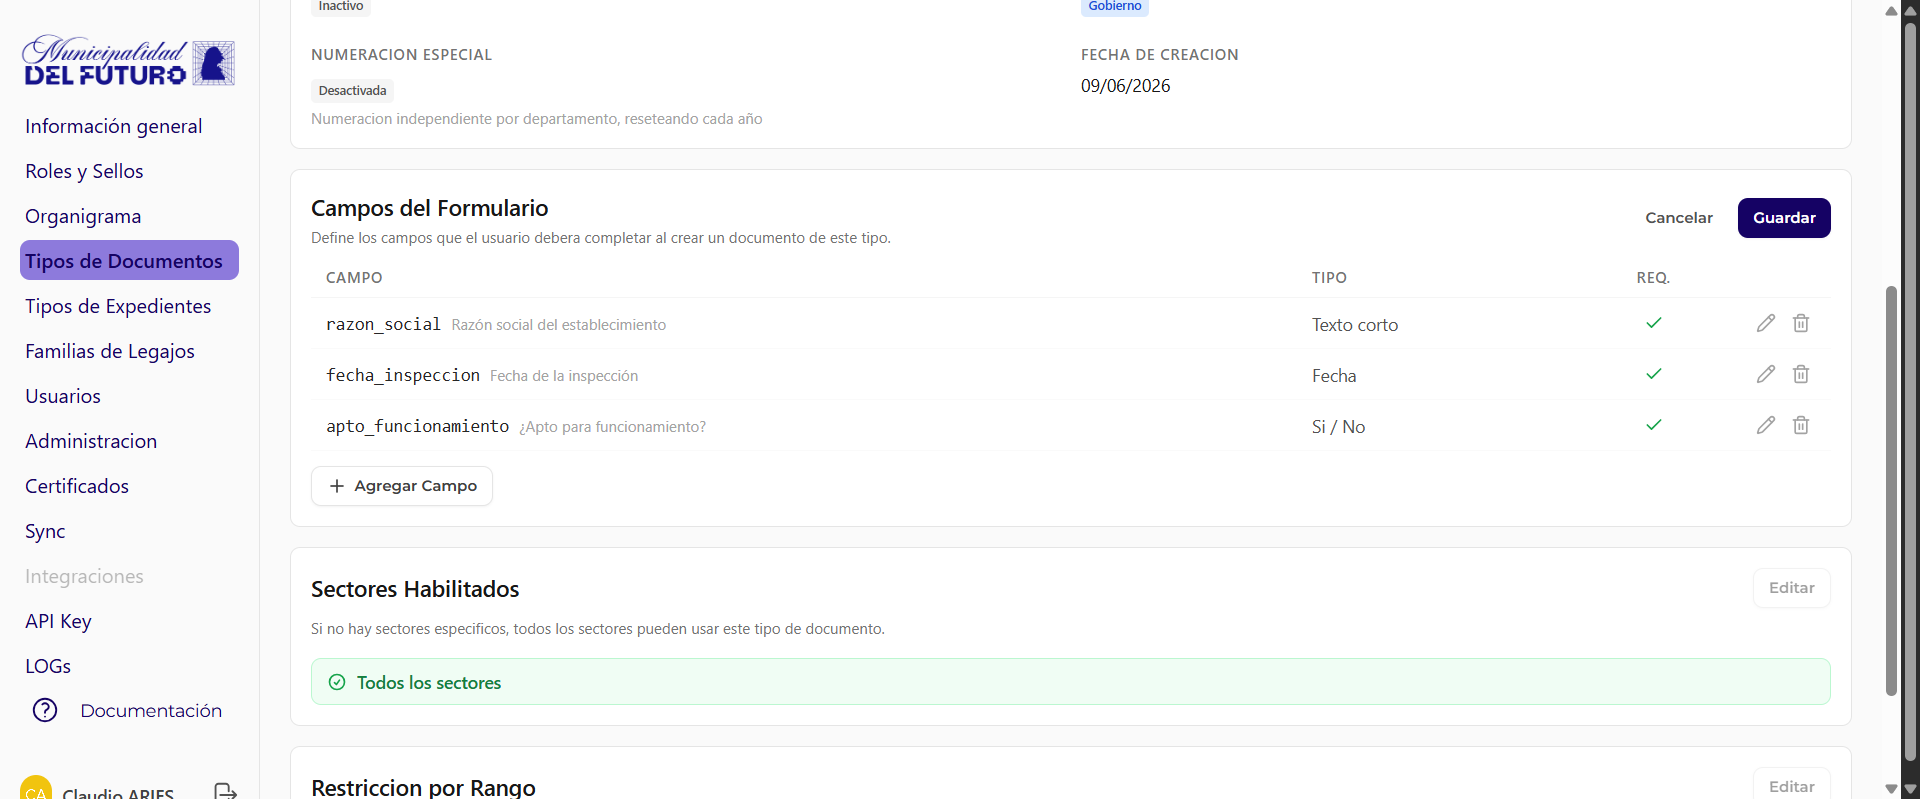
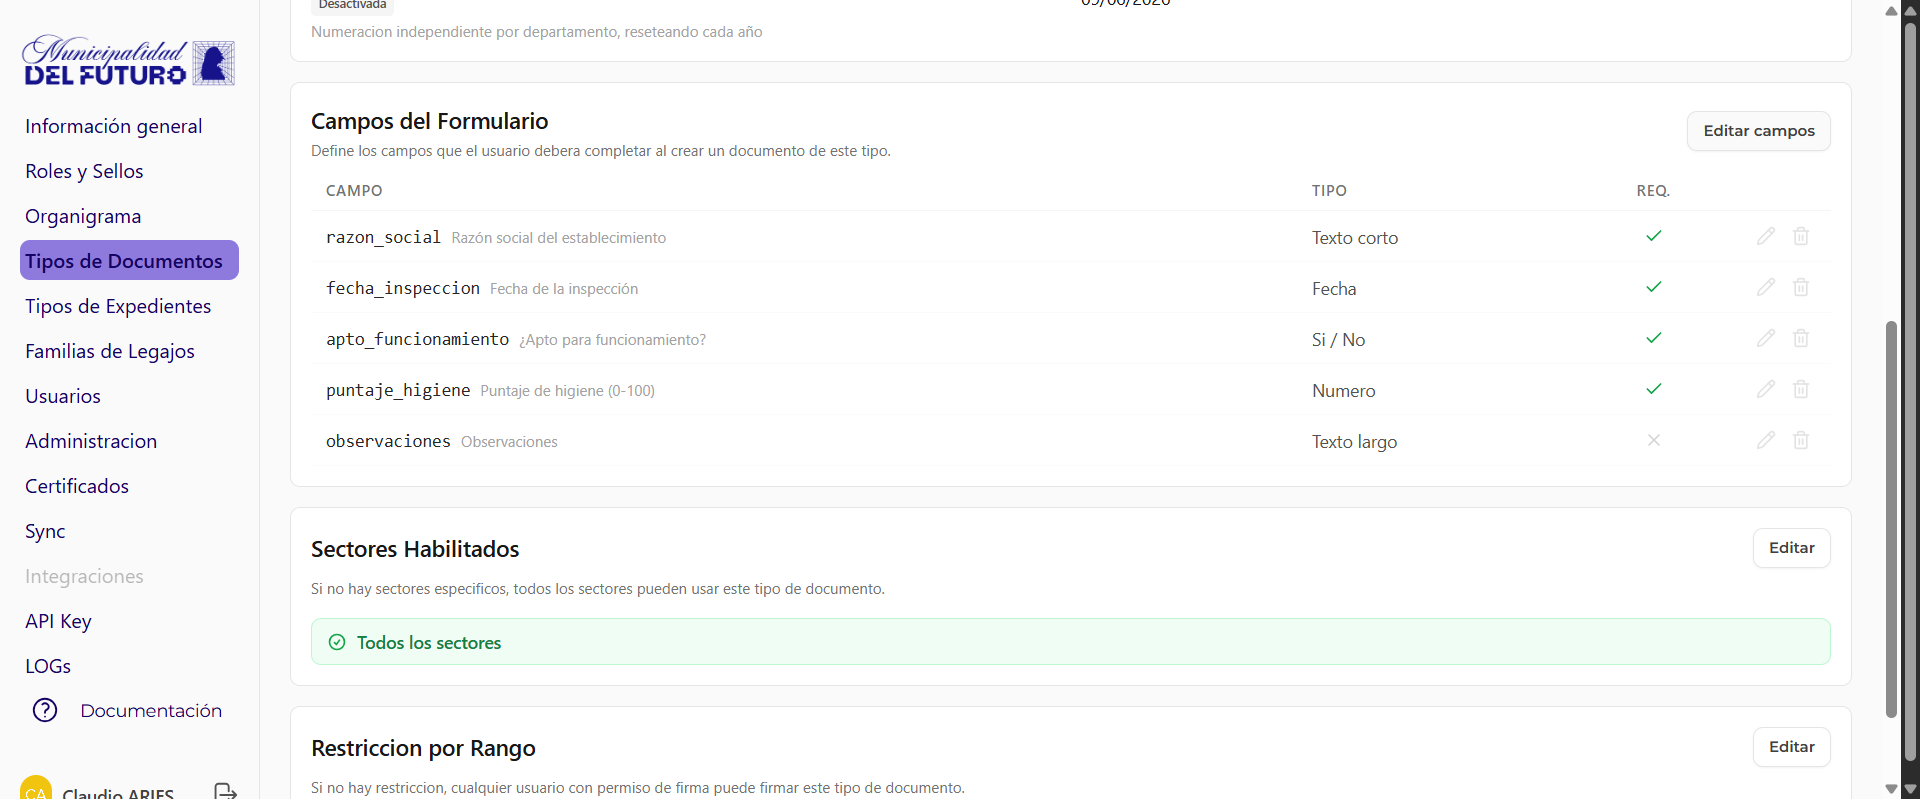
docs: separar pagina Panel del Expediente y documentar FFCC a nivel usuario
- Nueva pagina "Panel del Expediente" (panel.md): sector administrador,
  responsables, resumen IA, sectores actuantes y "Nueva Tarea / Asignacion".
  El detalle del expediente queda como vista general y enlaza al Panel.
- Nueva pagina "Documento FFCC (Formulario Controlado)" (usuarios): como se
  completa el formulario de campos controlados y como se ve el PDF resultante.
- Nav: agrega Panel y Documento FFCC; "Historial y Comentarios".
- Captura admin de campos FFCC actualizada a 5 campos de distinto tipo.

Build mkdocs --strict OK.

diff --git a/docs/usuarios/expedientes/panel.md b/docs/usuarios/expedientes/panel.md
@@ -1,0 +1,114 @@
+# Panel del Expediente
+
+La pestana **Panel** es la vista de gestion del expediente y la **pestana por defecto** al abrirlo. Concentra quien controla el expediente (sector administrador y responsables), un resumen generado por IA, y que sectores estan actuando sobre el. Se organiza en dos columnas.
+
+![Pestana Panel del expediente](../capturas/expediente-panel.png)
+
+!!! info "Panel, Documentos, Historial y Tu Asistente"
+    El detalle del expediente tiene cuatro pestanas: **Panel**, **Documentos**, **Historial** y **Tu Asistente**. El Panel es la que se muestra activa al abrir el expediente. Para el header y la vista general ver [Detalle del Expediente](detalle-expediente.md); para la linea de tiempo y los comentarios ver [Historial](movimientos.md).
+
+---
+
+## Columna izquierda: administracion y responsables
+
+### Sector Administrador
+
+La tarjeta **"SECTOR ADMINISTRADOR"** muestra el badge del sector que controla el expediente (por ejemplo `CONT#PRIV`). Es el area organizacional responsable del expediente.
+
+### Responsables
+
+Debajo, la seccion **"RESPONSABLES"** lista cada responsable asignado:
+
+| Elemento | Descripcion |
+|----------|-------------|
+| **Avatar y nombre** | Foto o iniciales del responsable, su nombre y su sector |
+| **Boton "Quitar responsable" (X)** | Quita al responsable de la lista |
+| **"Sin responsables asignados."** | Mensaje que aparece cuando no hay ningun responsable |
+| **Boton "+ responsable"** | Abre el modal para agregar un responsable administrador |
+| **Boton "Transferir"** | Cede el control administrativo del expediente a otro sector |
+
+!!! note "Responsable administrador y responsables adicionales"
+    El expediente puede tener un **responsable administrador** principal y **responsables adicionales**. El responsable administrador solo puede elegirse entre los usuarios del **sector administrador** del expediente.
+
+#### Modal "Agregar responsable administrador"
+
+El boton **"+ responsable"** abre el modal titulado **"Agregar responsable administrador - Busca y elegi la persona"**. El buscador solo muestra usuarios pertenecientes al sector administrador. Al elegir una persona y confirmar, queda registrada como responsable.
+
+### Resumen del expediente (IA)
+
+La tarjeta **"RESUMEN DEL EXPEDIENTE"**, identificada con el badge **"IA"**, muestra un resumen generado automaticamente por inteligencia artificial a partir de los documentos y movimientos del expediente. Si todavia no se genero, muestra el mensaje **"Todavia no hay resumen."**.
+
+!!! info "Resumen no oficial"
+    El resumen generado por IA es un apoyo informativo. No constituye un documento oficial ni reemplaza la lectura de los documentos del expediente.
+
+---
+
+## Columna derecha: Sectores Actuantes
+
+La columna **"Sectores Actuantes"** lista los sectores que tienen acceso para actuar sobre el expediente sin controlarlo. Un contador en el encabezado indica cuantos hay (por ejemplo **"1 abiertos"**).
+
+Cada sector actuante se muestra como una tarjeta con:
+
+| Elemento | Descripcion |
+|----------|-------------|
+| **Badge del sector** | Sigla del sector actuante (por ejemplo `LEGAL#PRIV`) |
+| **Persona asignada** | Avatar, nombre y fecha de la persona a cargo de la tarea |
+| **Motivo** | Texto de la solicitud (`Motivo: ...`) |
+| **Boton "Reasignar responsable"** | Cambia la persona asignada dentro del sector actuante |
+| **Boton "Cerrar tarea"** | Cierra la tarea de ese sector actuante |
+| **Boton "Cerrar"** | Cierra el sector actuante |
+
+Debajo de las tarjetas hay una caja punteada **"Nueva Tarea / Asignacion — Asignar un sector o una persona"** con un boton **+** que abre el modal de nuevo movimiento.
+
+---
+
+## Nueva Tarea / Asignacion
+
+El boton **"Nueva Tarea / Asignacion"** (la caja punteada de la columna Sectores Actuantes, o la opcion **"Nuevo Movimiento"** del menu Acciones) abre el modal **"Nuevo Movimiento — &lt;numero&gt;"**, con dos pestanas: **Asignacion** y **Transferencia**.
+
+![Modal Nuevo Movimiento - pestana Asignacion](../capturas/expediente-asignacion-modal.png)
+
+### Asignacion
+
+Solicita una **Actuacion Interna**: otorgas acceso a otros sectores **sin perder el control** del Expediente. El sector asignado puede consultar los documentos y realizar las tareas solicitadas, pero el sector administrador mantiene la responsabilidad.
+
+| Campo | Tipo | Descripcion |
+|-------|------|-------------|
+| **Sector a Asignar (persona opcional)** | Combobox con busqueda | Al escribir 2 o mas caracteres busca y agrupa los resultados en **"Solo sector"** y **"Personas"**. Si se elige una persona, se muestran sus sectores para seleccionar uno |
+| **Motivo (min. 5 caracteres)** | Textarea | Descripcion de lo que se solicita. Muestra un contador `/500` |
+| **Sector Solicitante** | Texto fijo | El sector del usuario que realiza la solicitud. No es editable |
+| **Asentar en el expediente** | Si / No | Si es **Si**, genera una providencia de pase (PV) que queda registrada en la pestana Documentos |
+
+| Boton | Accion |
+|-------|--------|
+| **Cancelar** | Cierra el modal sin crear la asignacion |
+| **Confirmar Asignacion** | Crea la actuacion interna y otorga el acceso al sector o persona elegida |
+
+!!! info "Asignar otorga acceso, no cede el control"
+    Una asignacion suma al sector o persona como **actuante**: obtiene acceso para consultar y actuar sobre el expediente, pero el control administrativo sigue en el sector administrador.
+
+### Transferencia
+
+La pestana **Transferencia** **cede el control administrativo** del expediente a otro sector, igual que la transferencia clasica. A diferencia de la asignacion, el sector que transfiere pierde el rol de administrador y el sector destino pasa a ser el nuevo administrador.
+
+!!! warning "La transferencia cambia el administrador"
+    Al transferir, el sector de origen pierde el control administrativo. Solo el nuevo sector administrador podra volver a transferir el expediente o gestionarlo.
+
+---
+
+## Preguntas frecuentes
+
+??? question "Cual es la diferencia entre asignacion y transferencia?"
+    La **asignacion** (actuacion interna) otorga acceso a otro sector o persona sin perder el control: el sector administrador sigue siendo el mismo. La **transferencia** cede el control administrativo al sector destino, que pasa a ser el nuevo administrador.
+
+??? question "Quien puede ser responsable administrador?"
+    El responsable administrador solo puede elegirse entre los usuarios del **sector administrador** del expediente. Se asigna desde el modal "Agregar responsable administrador" en la pestana Panel.
+
+??? question "Que es el badge IA en la tarjeta de resumen?"
+    Indica que el resumen del expediente fue generado automaticamente por inteligencia artificial a partir de sus documentos y movimientos. Si aun no se genero, muestra "Todavia no hay resumen.".
+
+??? question "Que significa el contador 'N abiertos' en Sectores Actuantes?"
+    Es la cantidad de sectores actuantes activos sobre el expediente, es decir, los sectores a los que se les otorgo acceso mediante una asignacion y que todavia no fueron cerrados.
+
+??? question "Una asignacion genera algun documento en el expediente?"
+    Si el campo **"Asentar en el expediente"** queda en **Si**, la asignacion genera una providencia de pase (PV) que queda registrada en la pestana Documentos.

diff --git a/docs/usuarios/expedientes/detalle-expediente.md b/docs/usuarios/expedientes/detalle-expediente.md
@@ -35,7 +35,7 @@ Debajo del titulo se muestra un resumen de los datos del expediente en una sola 
 | Opcion | Descripcion |
 |--------|-------------|
 | **Descargar** | Descarga un archivo ZIP con todos los documentos oficiales del expediente. Ver seccion [Descargar expediente como ZIP](#descargar-expediente-como-zip) |
-| **Nuevo Movimiento** | Abre el modal para crear una nueva asignacion o transferencia. Ver [Nueva Tarea / Asignacion](#nueva-tarea-asignacion) |
+| **Nuevo Movimiento** | Abre el modal para crear una nueva asignacion o transferencia. Ver [Panel del Expediente](panel.md#nueva-tarea-asignacion) |
 | **Vincular Documentos** | Navega a la pestana Documentos y abre el modal de vinculacion. Ver [Vincular Documentos](vincular-documentos.md) |
 | **Subsanar** | Abre el proceso guiado de subsanacion. Ver [Subsanar en Expediente](subsanar-expediente.md) |
 
@@ -59,92 +59,11 @@ La pantalla se organiza en cuatro pestanas:
 
 ## Pestana Panel
 
-Es la pestana central del expediente. Concentra la gestion de quien controla el expediente, quienes son sus responsables y que sectores estan actuando sobre el. Se organiza en dos columnas.
+Es la pestana central del expediente y la que se muestra por defecto al abrirlo. Concentra la gestion de quien controla el expediente, quienes son sus responsables, el resumen IA y los sectores actuantes; ademas, desde ahi se crean las asignaciones y transferencias ("Nueva Tarea / Asignacion").
 
 ![Pestana Panel del expediente](../capturas/expediente-panel.png)
 
-### Columna izquierda: administracion y responsables
-
-#### Sector Administrador
-
-La tarjeta **"SECTOR ADMINISTRADOR"** muestra el badge del sector que controla el expediente (por ejemplo `CONT#PRIV`). Es el area organizacional responsable del expediente.
-
-#### Responsables
-
-Debajo, la seccion **"RESPONSABLES"** lista cada responsable asignado:
-
-| Elemento | Descripcion |
-|----------|-------------|
-| **Avatar y nombre** | Foto o iniciales del responsable, su nombre y su sector |
-| **Boton "Quitar responsable" (X)** | Quita al responsable de la lista |
-| **"Sin responsables asignados."** | Mensaje que aparece cuando no hay ningun responsable |
-| **Boton "+ responsable"** | Abre el modal para agregar un responsable administrador |
-| **Boton "Transferir"** | Cede el control administrativo del expediente a otro sector |
-
-!!! note "Responsable administrador y responsables adicionales"
-    El expediente puede tener un **responsable administrador** principal y **responsables adicionales**. El responsable administrador solo puede elegirse entre los usuarios del **sector administrador** del expediente.
-
-##### Modal "Agregar responsable administrador"
-
-El boton **"+ responsable"** abre el modal titulado **"Agregar responsable administrador - Busca y elegi la persona"**. El buscador solo muestra usuarios pertenecientes al sector administrador. Al elegir una persona y confirmar, queda registrada como responsable.
-
-#### Resumen del expediente (IA)
-
-La tarjeta **"RESUMEN DEL EXPEDIENTE"**, identificada con el badge **"IA"**, muestra un resumen generado automaticamente por inteligencia artificial a partir de los documentos y movimientos del expediente. Si todavia no se genero, muestra el mensaje **"Todavia no hay resumen."**.
-
-!!! info "Resumen no oficial"
-    El resumen generado por IA es un apoyo informativo. No constituye un documento oficial ni reemplaza la lectura de los documentos del expediente.
-
-### Columna derecha: Sectores Actuantes
-
-La columna **"Sectores Actuantes"** lista los sectores que tienen acceso para actuar sobre el expediente sin controlarlo. Un contador en el encabezado indica cuantos hay (por ejemplo **"1 abiertos"**).
-
-Cada sector actuante se muestra como una tarjeta con:
-
-| Elemento | Descripcion |
-|----------|-------------|
-| **Badge del sector** | Sigla del sector actuante (por ejemplo `LEGAL#PRIV`) |
-| **Persona asignada** | Avatar, nombre y fecha de la persona a cargo de la tarea |
-| **Motivo** | Texto de la solicitud (`Motivo: ...`) |
-| **Boton "Reasignar responsable"** | Cambia la persona asignada dentro del sector actuante |
-| **Boton "Cerrar tarea"** | Cierra la tarea de ese sector actuante |
-| **Boton "Cerrar"** | Cierra el sector actuante |
-
-Debajo de las tarjetas hay una caja punteada **"Nueva Tarea / Asignacion — Asignar un sector o una persona"** con un boton **+** que abre el modal de nuevo movimiento.
-
----
-
-## Nueva Tarea / Asignacion
-
-El boton **"Nueva Tarea / Asignacion"** (la caja punteada de la columna Sectores Actuantes, o la opcion **"Nuevo Movimiento"** del menu Acciones) abre el modal **"Nuevo Movimiento — &lt;numero&gt;"**, con dos pestanas: **Asignacion** y **Transferencia**.
-
-![Modal Nuevo Movimiento - pestana Asignacion](../capturas/expediente-asignacion-modal.png)
-
-### Asignacion
-
-Solicita una **Actuacion Interna**: otorgas acceso a otros sectores **sin perder el control** del Expediente. El sector asignado puede consultar los documentos y realizar las tareas solicitadas, pero el sector administrador mantiene la responsabilidad.
-
-| Campo | Tipo | Descripcion |
-|-------|------|-------------|
-| **Sector a Asignar (persona opcional)** | Combobox con busqueda | Al escribir 2 o mas caracteres busca y agrupa los resultados en **"Solo sector"** y **"Personas"**. Si se elige una persona, se muestran sus sectores para seleccionar uno |
-| **Motivo (min. 5 caracteres)** | Textarea | Descripcion de lo que se solicita. Muestra un contador `/500` |
-| **Sector Solicitante** | Texto fijo | El sector del usuario que realiza la solicitud. No es editable |
-| **Asentar en el expediente** | Si / No | Si es **Si**, genera una providencia de pase (PV) que queda registrada en la pestana Documentos |
-
-| Boton | Accion |
-|-------|--------|
-| **Cancelar** | Cierra el modal sin crear la asignacion |
-| **Confirmar Asignacion** | Crea la actuacion interna y otorga el acceso al sector o persona elegida |
-
-!!! info "Asignar otorga acceso, no cede el control"
-    Una asignacion suma al sector o persona como **actuante**: obtiene acceso para consultar y actuar sobre el expediente, pero el control administrativo sigue en el sector administrador.
-
-### Transferencia
-
-La pestana **Transferencia** **cede el control administrativo** del expediente a otro sector, igual que la transferencia clasica. A diferencia de la asignacion, el sector que transfiere pierde el rol de administrador y el sector destino pasa a ser el nuevo administrador.
-
-!!! warning "La transferencia cambia el administrador"
-    Al transferir, el sector de origen pierde el control administrativo. Solo el nuevo sector administrador podra volver a transferir el expediente o gestionarlo.
+Por su extension, el Panel se documenta en su propia pagina: ver **[Panel del Expediente](panel.md)**.
 
 ---
 
@@ -238,20 +157,8 @@ La opcion **"Descargar"** del menu Acciones genera y descarga un archivo `.zip` 
 
 ## Preguntas frecuentes
 
-??? question "Cual es la diferencia entre asignacion y transferencia?"
-    La **asignacion** (actuacion interna) otorga acceso a otro sector o persona sin perder el control: el sector administrador sigue siendo el mismo. La **transferencia** cede el control administrativo al sector destino, que pasa a ser el nuevo administrador.
-
-??? question "Quien puede ser responsable administrador?"
-    El responsable administrador solo puede elegirse entre los usuarios del **sector administrador** del expediente. Se asigna desde el modal "Agregar responsable administrador" en la pestana Panel.
-
-??? question "Que es el badge IA en la tarjeta de resumen?"
-    Indica que el resumen del expediente fue generado automaticamente por inteligencia artificial a partir de sus documentos y movimientos. Si aun no se genero, muestra "Todavia no hay resumen.".
-
-??? question "Que significa el contador 'N abiertos' en Sectores Actuantes?"
-    Es la cantidad de sectores actuantes activos sobre el expediente, es decir, los sectores a los que se les otorgo acceso mediante una asignacion y que todavia no fueron cerrados.
-
-??? question "Una asignacion genera algun documento en el expediente?"
-    Si el campo **"Asentar en el expediente"** queda en **Si**, la asignacion genera una providencia de pase (PV) que queda registrada en la pestana Documentos.
+??? question "Donde gestiono responsables, asignaciones y transferencias?"
+    Todo eso se hace desde la pestana **Panel**. Ver [Panel del Expediente](panel.md), que detalla el sector administrador, los responsables, el resumen IA, los sectores actuantes y el modal "Nueva Tarea / Asignacion".
 
 ??? question "Puedo ver el contenido de un documento sin descargarlo?"
     Si. En la pestana Documentos, al hacer click en cualquier documento de la lista se muestra una vista previa del PDF en el panel derecho.

diff --git a/docs/usuarios/documentos/documento-ffcc.md b/docs/usuarios/documentos/documento-ffcc.md
@@ -1,0 +1,67 @@
+# Documento FFCC (Formulario Controlado)
+
+Un documento **FFCC** (Formulario Controlado) reemplaza el editor de texto libre por un **formulario de campos** que el usuario completa. En vez de redactar el contenido a mano, se cargan valores en campos predefinidos (texto, fecha, numero, si/no, etc.) y el sistema arma el documento oficial con formato `campo: valor`.
+
+Sirve para tramites que siempre tienen la misma estructura de datos: fichas de inspeccion, constancias, formularios de relevamiento, etc. Los campos los define el administrador del organismo en el tipo de documento (ver [Tipos de Documentos](../../administradores/tipos-de-documentos.md#formularios-controlados-ffcc)).
+
+!!! info "Que tipos son FFCC"
+    En la lista de tipos al crear un documento, los tipos FFCC se comportan distinto: al elegirlos, el editor muestra los campos del formulario en lugar de la barra de texto enriquecido. Pueden ser un tipo **FFCC** propio del municipio, o variantes **NOTA FFCC** / **MEMO FFCC**.
+
+---
+
+## Crear un documento FFCC
+
+1. Ir a **Documentos** y presionar **"Crear"** (o crear el documento desde un expediente con **"Vincular Documento"**).
+2. En **Tipo de Documento**, elegir un tipo FFCC (por ejemplo *Ficha de Inspeccion Bromatologica*).
+3. Ingresar la **Referencia** y presionar **Crear**.
+4. El editor abre el **formulario controlado** con los campos definidos para ese tipo.
+
+![Formulario controlado FFCC](../capturas/documento-ffcc-formulario.png)
+
+---
+
+## Completar el formulario
+
+En lugar del editor de texto, el panel central muestra los campos del tipo. Cada campo tiene su **etiqueta** y un control segun su tipo:
+
+| Tipo de campo | Control que ve el usuario |
+|---------------|---------------------------|
+| **Texto corto** | Cuadro de texto de una linea |
+| **Texto largo** | Cuadro de texto de varias lineas |
+| **Email** | Cuadro de texto que valida formato de correo |
+| **Numero** | Campo numerico |
+| **Fecha** | Selector de fecha (dia / mes / año) |
+| **Seleccion (lista)** | Desplegable con opciones predefinidas |
+| **Si / No** | Casilla de verificacion |
+| **Documento adjunto** | Carga de un archivo |
+
+Los campos marcados con asterisco (**\***) son **obligatorios**: hay que completarlos antes de poder firmar.
+
+!!! note "El resto del documento es igual"
+    Las secciones **Firmantes** y **Proponer vinculacion** (con la opcion de [vinculacion automatica al firmar](../expedientes/vincular-documentos.md)) funcionan igual que en cualquier otro documento. Solo cambia la forma de cargar el contenido.
+
+---
+
+## Como se ve el PDF
+
+Al previsualizar o firmar, el sistema genera el PDF oficial con el membrete del organismo y una **tabla de campos y valores**: cada fila muestra la etiqueta del campo y el valor cargado.
+
+![PDF generado de un documento FFCC](../capturas/documento-ffcc-pdf.png)
+
+A partir de ahi, el documento sigue el flujo habitual: se firma, se numera y puede vincularse a un expediente como cualquier otro documento.
+
+---
+
+## Preguntas frecuentes
+
+??? question "Por que no veo la barra de texto enriquecido?"
+    Porque el tipo de documento es **FFCC**: usa un formulario de campos controlados en vez del editor libre. Es el comportamiento esperado para ese tipo.
+
+??? question "Puedo dejar campos vacios?"
+    Solo los campos que **no** son obligatorios. Los campos marcados con asterisco (**\***) deben completarse antes de firmar.
+
+??? question "Quien define los campos del formulario?"
+    El administrador del organismo, desde el detalle del tipo de documento en el BackOffice. Ver [Tipos de Documentos - Formularios Controlados (FFCC)](../../administradores/tipos-de-documentos.md#formularios-controlados-ffcc).
+
+??? question "Un FFCC se puede vincular a un expediente?"
+    Si. Una vez firmado se comporta como cualquier documento: se puede proponer o vincular automaticamente a uno o varios expedientes.